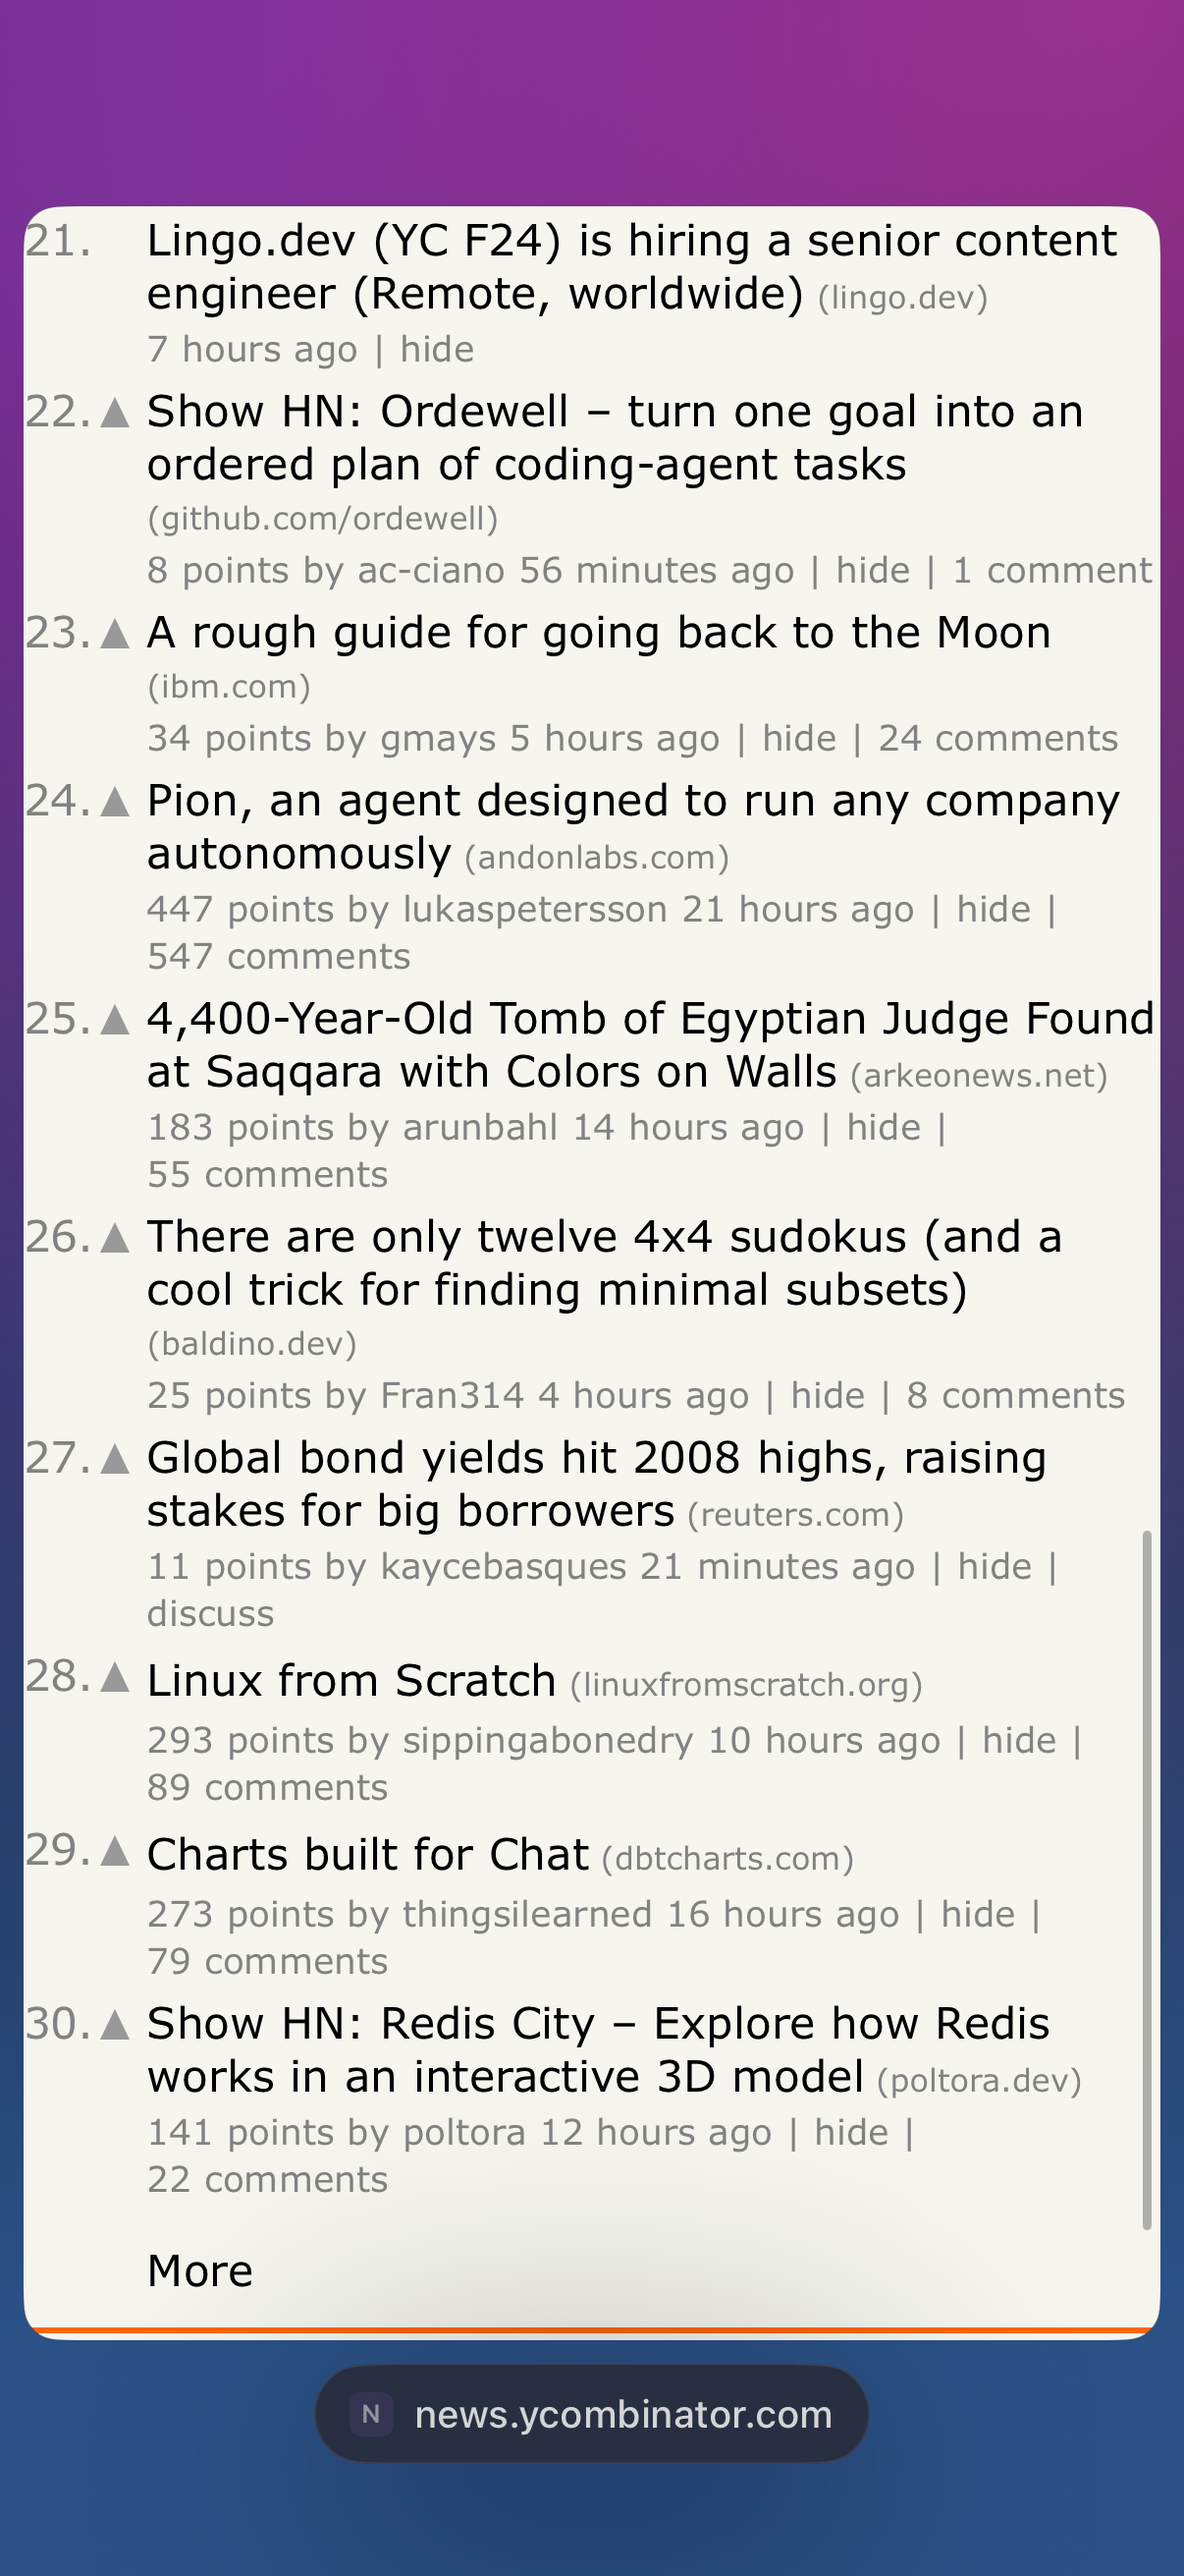
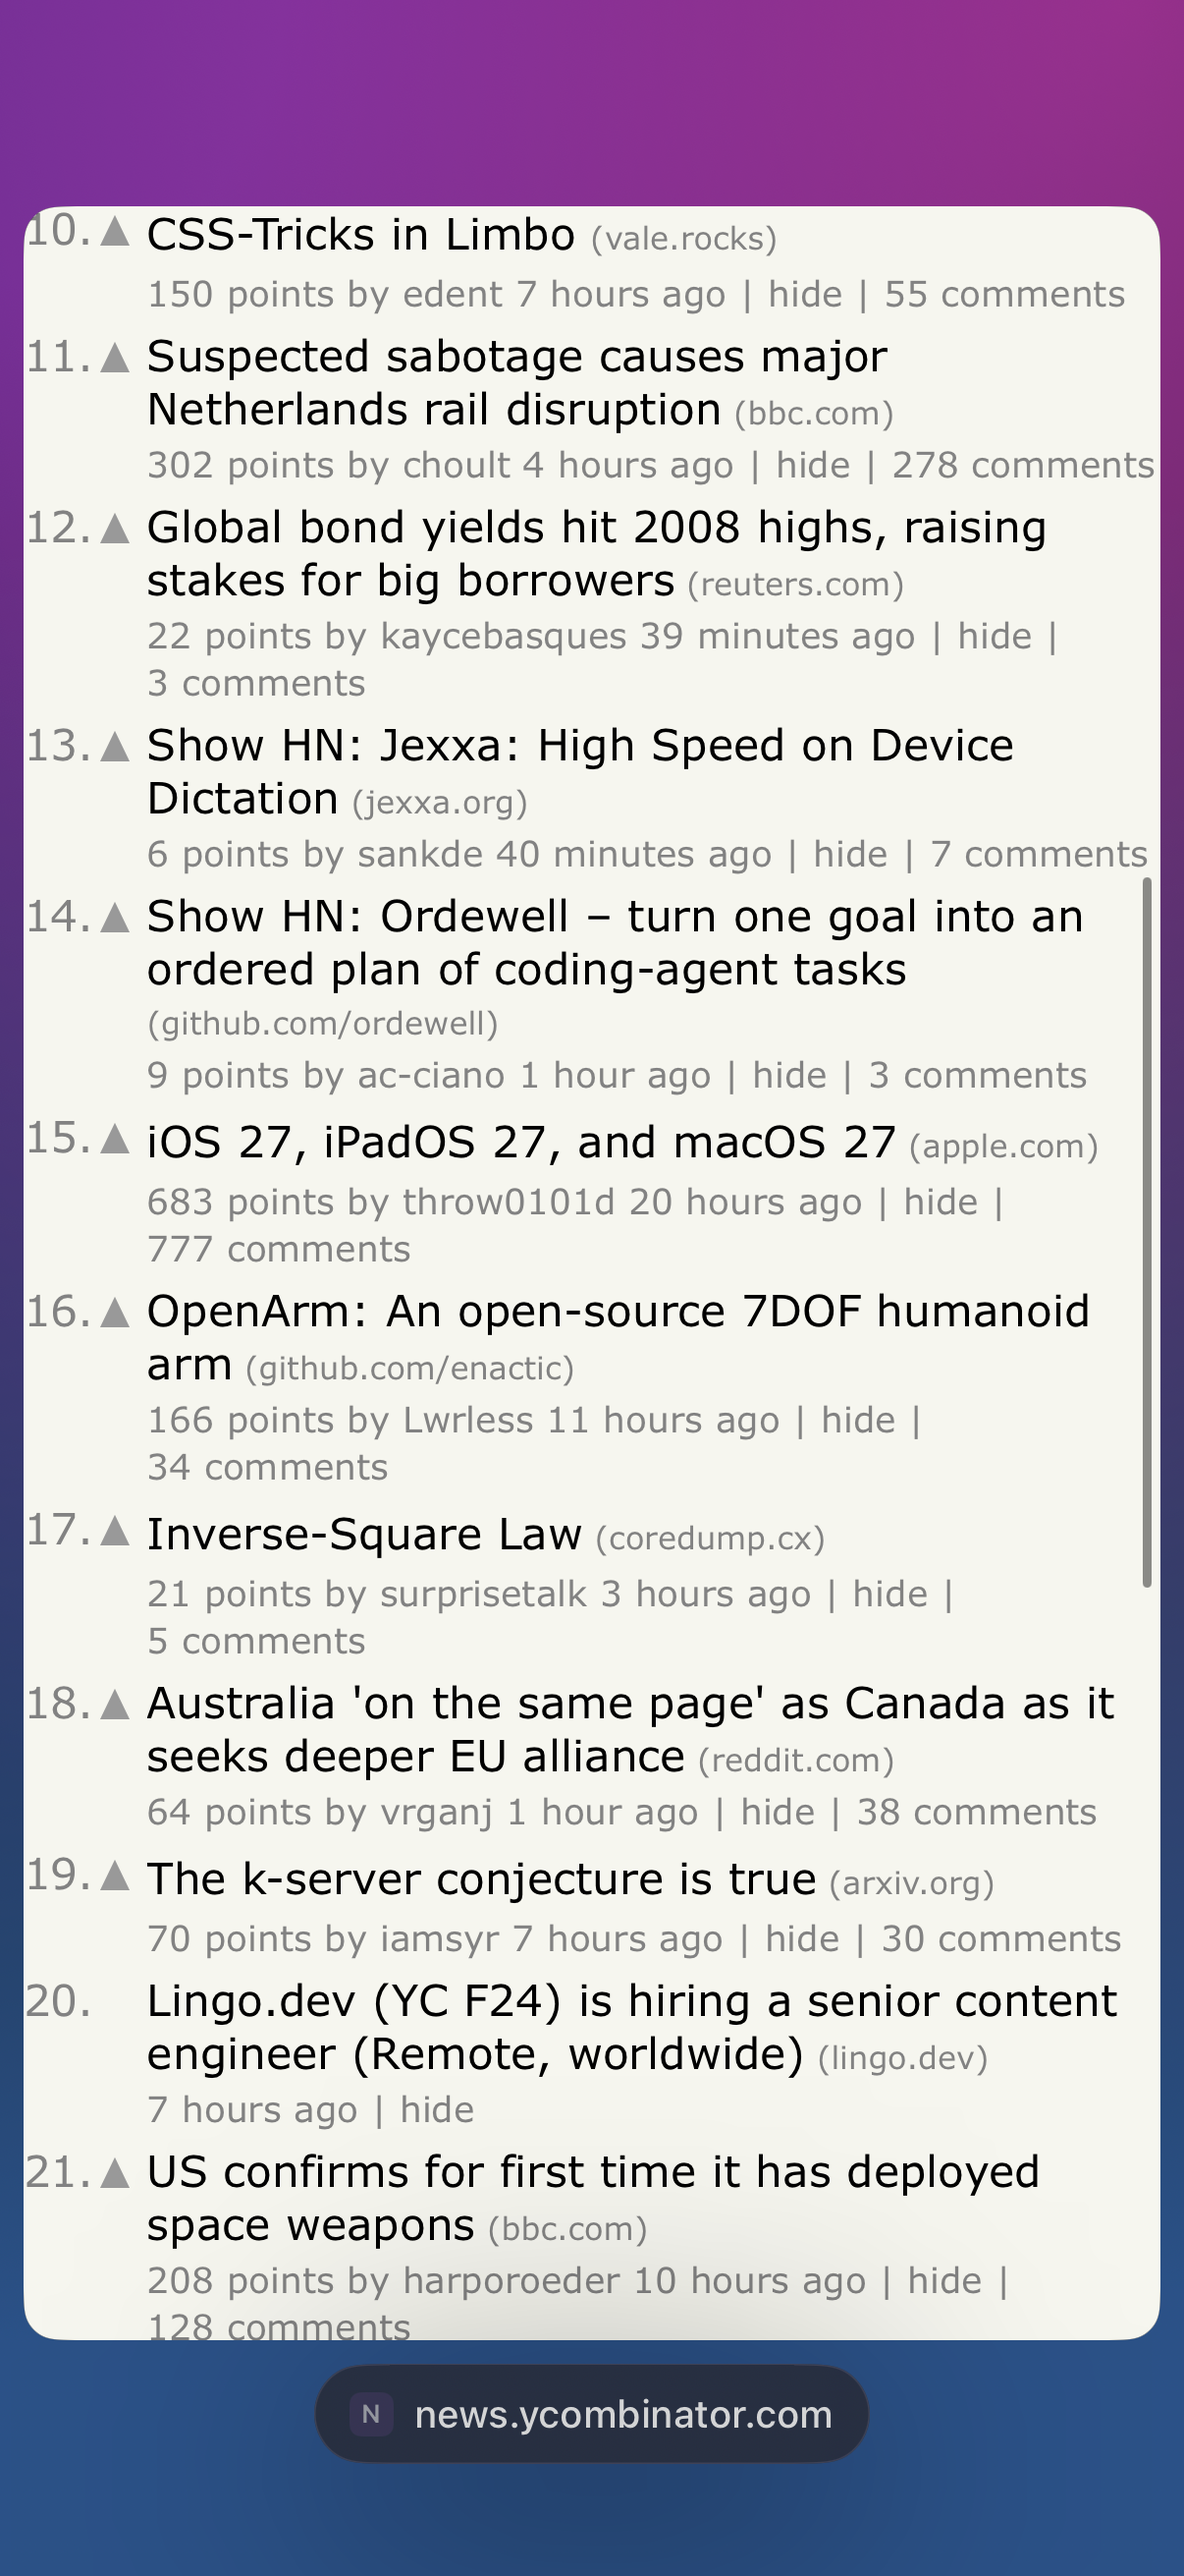
test(ios): drive the rest of the compact pill's contract on the device (#008AF)
The screenshot test proved the pill appears and that a tap expands it.
The other two halves of the ask were only covered by the state machine's
unit tests, so drive them for real as well:

* the URL area of the *expanded* bar still opens the omnibox — expanding
  and searching are deliberately two taps, not one;
* a swipe up from the pill reaches the tab drawer without expanding the
  bar first.

Also recover from a stuck compact mode at launch. Compact mode is a
persisted setting, so a run that failed partway through this test left
the *next* launch with no visible chrome, and every test after it failed
with "address bar missing" — which says nothing about what it was
testing. That happened here. `setUp` now takes the documented way back,
the grabber above the home indicator, when the bar is not there.

diff --git a/ios/Tests/ZenUITests/ScreenshotTests.swift b/ios/Tests/ZenUITests/ScreenshotTests.swift
@@ -20,6 +20,20 @@ final class ScreenshotTests: XCTestCase {
         continueAfterFailure = true
         app = XCUIApplication()
         app.launch()
+        recoverFromStuckCompactMode()
+    }
+
+    /// Compact mode is a *persisted* setting, so a run that failed partway
+    /// through the compact test hands the next launch an app with no visible
+    /// chrome to drive — every test after it then fails with "address bar
+    /// missing", which says nothing about the thing it was testing. The
+    /// grabber above the home indicator is the documented way back, so use it.
+    private func recoverFromStuckCompactMode() {
+        guard !addressBar.waitForExistence(timeout: 6) else { return }
+        app.coordinate(withNormalizedOffset: CGVector(dx: 0.5, dy: 0.965)).tap()
+        guard addressBar.waitForExistence(timeout: 4) else { return }
+        _ = tapMenuItem(matching: "label CONTAINS[c] 'Compact Mode'")
+        settle(1.0)
     }
 
     // MARK: Capture
@@ -223,6 +237,26 @@ final class ScreenshotTests: XCTestCase {
             app.buttons["Address and search"].waitForExistence(timeout: 3),
             "tapping the pill did not expand the bar")
         capture("40-compact-expanded\(suffix)")
+
+        // (c) The URL area of the *expanded* bar is still the way into the
+        // omnibox — expanding and searching are two taps, not one.
+        app.buttons["Address and search"].tap()
+        XCTAssertTrue(
+            app.textFields["omniboxField"].waitForExistence(timeout: 8),
+            "tapping the expanded bar's URL area did not open the omnibox")
+        app.coordinate(withNormalizedOffset: CGVector(dx: 0.5, dy: 0.06)).tap()
+        settle(1.0)
+
+        // (d) Up from the *pill* reaches the drawer, without expanding first.
+        XCTAssertTrue(scrollToThePill(pill), "the pill did not come back for the swipe")
+        pill.coordinate(withNormalizedOffset: CGVector(dx: 0.5, dy: 0.5))
+            .press(
+                forDuration: 0.05,
+                thenDragTo: app.coordinate(withNormalizedOffset: CGVector(dx: 0.5, dy: 0.35)))
+        XCTAssertTrue(
+            app.buttons["New Tab"].waitForExistence(timeout: 5),
+            "swiping up from the pill did not open the sidebar")
+        closeSidebar()
 
         // Leave compact mode, or the setting persists into the next launch and
         // every test after this one starts with no bar to drive.
